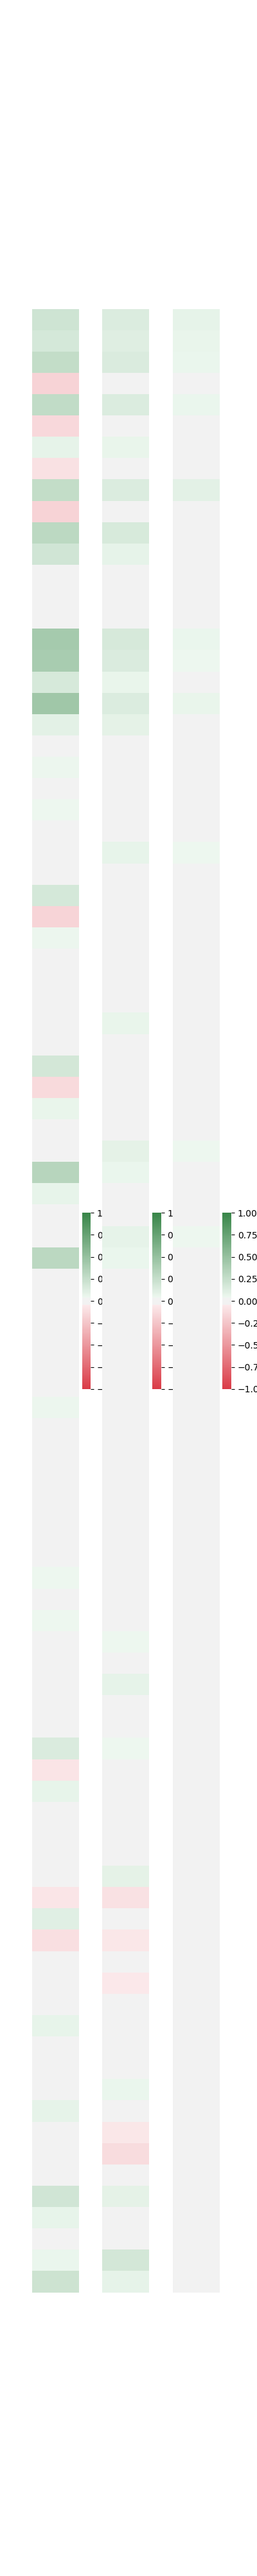
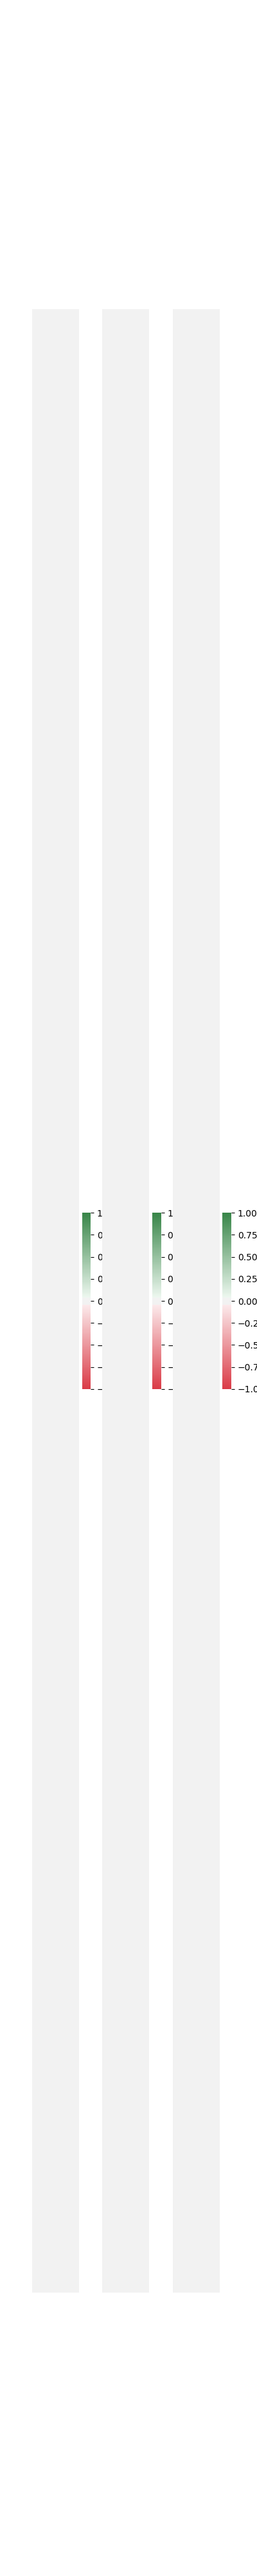
ready to train

diff --git a/part-b/2020-part-B-skeleton/voltage_mkII/treestrap.py b/part-b/2020-part-B-skeleton/voltage_mkII/treestrap.py
@@ -1,4 +1,4 @@
-from player import State, ALL, MOVE, INF
+from player import State, ALL, MOVE, INF, OPN, DEV, MID, END
 import numpy as np
 import matplotlib.pyplot as plt
 import seaborn as sns
@@ -20,8 +20,7 @@ def H(features, θ):
 α = 0.000001*3
 λ = 0.5
 MAX_CHANGE = 0.1
-def tree_strap_train(θo, θm, θe, depth=TRAIN_DEPTH):
-    OPN, MID, END = 0, 1, 2
+def tree_strap_train(θo, θd, θm, θe, depth=TRAIN_DEPTH):
     state = State()
     random_turns = np.random.choice([0] + [2]*2 + [4]*4 + [8]*8 + 16*[16] + 32*[32])
     while (not state.terminal_test()):
@@ -29,9 +28,11 @@ def tree_strap_train(θo, θm, θe, depth=TRAIN_DEPTH):
         print(state)
         print()
 
-        if state.board[state.board > 0].sum() == 12:
+        if state.stage[0] == OPN:
             θ = θo
-        elif state.board[state.board > 0].sum() > 5: 
+        elif state.stage[0] == DEV:
+            θ = θd
+        elif state.stage[0] == MID:
             θ = θm
         else:
             θ = θe
@@ -71,10 +72,10 @@ def tree_strap_train(θo, θm, θe, depth=TRAIN_DEPTH):
 
         state.board *= -1
         state.turn += 1
-    return θo, θm, θe
+    return θo, θd, θm, θe
 
 def minimax(state, depth, θ, searched_states=None):
-    if state.terminal_test():
+    if state.stages_terminal_test():
         return state.utility()
     if depth == 0:
         return H(Φ(state), θ)
@@ -92,7 +93,7 @@ def minimax(state, depth, θ, searched_states=None):
 
 
 def negamax(state, alpha, beta, depth, θ):
-    if state.terminal_test():
+    if state.stages_terminal_test():
         return state.utility()
     if depth == 0:
         return H(Φ(state), θ)
@@ -107,25 +108,40 @@ def negamax(state, alpha, beta, depth, θ):
         alpha = max(alpha, v)
     return v
 
-N_GAMES = 1
+N_GAMES = 3
 def main():
-    θo = np.load('opening.npy')
-    θm = np.load('middle.npy')
-    θe = np.load('end.npy')
+    try:
+        θo = np.load('opn.npy')
+        θd = np.load('dev.npy')
+        θm = np.load('mid.npy')
+        θe = np.load('end.npy')
+    except:
+        θo = np.array([-1.0, 1, 2, -2, 10, -10, 0, 0, 1, -1, -1, 1, 1, -1, 0, 0, 1, -1, 0, 0, 0, 0, -1, 
+                        1, 1, -1, 0, 0, 0, 0, -1, 1, -1, 1, 10, 0, 1, -1, 1, 0, 2, 0, 0, -2, 2, 0, 0, -2])/9
+        θd = np.copy(θo)
+        θm = np.copy(θo)
+        θe = np.copy(θo)
 
-    θos, θms, θes = [np.copy(θo)], [np.copy(θm)], [np.copy(θe)]
-    for _ in range(N_GAMES):
-        print('Game #', _)
-        θo, θm, θe = tree_strap_train(θo, θm, θe, depth=TRAIN_DEPTH)
+    θos, θds, θms, θes = [np.copy(θo)], [np.copy(θd)], [np.copy(θm)], [np.copy(θe)]
+    for game_num in range(N_GAMES):
+        print('Game #', game_num+1)
+        θo, θd, θm, θe = tree_strap_train(θo, θd, θm, θe, depth=TRAIN_DEPTH)
         θos.append(np.copy(θo))
+        θds.append(np.copy(θd))
         θms.append(np.copy(θm))
         θes.append(np.copy(θe))
-        np.save('opening', θo)
-        np.save('middle', θm)
+        np.save('opn', θo)
+        np.save('dev', θd)
+        np.save('mid', θm)
         np.save('end', θe)
-        if not _%10:
+        
+        if game_num%10 == 0:
+
+            # reset memoised dict
+            Φ(None, None, True)
+
             fig = plt.figure(figsize=(20, 20))
-            plt.subplot(3, 1, 1)
+            plt.subplot(4, 1, 1)
             for i in range(len(θo)):
                 x = [j for j in range(len(θos))]
                 y = [θos[j][i] for j in range(len(θos))]
@@ -134,7 +150,7 @@ def main():
                 plt.ylabel('Weight', fontsize=14)
             sns.despine()
 
-            plt.subplot(3, 1, 2)
+            plt.subplot(4, 1, 2)
             for i in range(len(θm)):
                 x = [j for j in range(len(θms))]
                 y = [θms[j][i] for j in range(len(θms))]
@@ -143,7 +159,16 @@ def main():
                 plt.ylabel('Weight', fontsize=14)
             sns.despine()
 
-            plt.subplot(3, 1, 3)
+            plt.subplot(4, 1, 3)
+            for i in range(len(θm)):
+                x = [j for j in range(len(θms))]
+                y = [θms[j][i] for j in range(len(θms))]
+                plt.plot(x, y)
+                plt.title('Mid-Game', fontsize=16)
+                plt.ylabel('Weight', fontsize=14)
+            sns.despine()
+
+            plt.subplot(4, 1, 4)
             for i in range(len(θe)):
                 x = [j for j in range(len(θes))]
                 y = [θes[j][i] for j in range(len(θes))]
@@ -154,18 +179,17 @@ def main():
             sns.despine()
             plt.savefig('Training.png')
 
-        
     cmap = sns.diverging_palette(10, 133, as_cmap=True)
     fig = plt.figure(figsize=(20, 4))
     FACTOR=1
-    plt.subplot(3, 1, 1); sns.heatmap([θo], cmap=cmap, vmin=-FACTOR, vmax=FACTOR, xticklabels=[])
-    plt.subplot(3, 1, 2); sns.heatmap([θm], cmap=cmap, vmin=-FACTOR, vmax=FACTOR, xticklabels=[])
-    plt.subplot(3, 1, 3); sns.heatmap([θe], cmap=cmap, vmin=-FACTOR, vmax=FACTOR, xticklabels=[])
+    plt.subplot(4, 1, 1); sns.heatmap([θo], cmap=cmap, vmin=-FACTOR, vmax=FACTOR, xticklabels=[])
+    plt.subplot(4, 1, 2); sns.heatmap([θd], cmap=cmap, vmin=-FACTOR, vmax=FACTOR, xticklabels=[])
+    plt.subplot(4, 1, 3); sns.heatmap([θm], cmap=cmap, vmin=-FACTOR, vmax=FACTOR, xticklabels=[])
+    plt.subplot(4, 1, 4); sns.heatmap([θe], cmap=cmap, vmin=-FACTOR, vmax=FACTOR, xticklabels=[])
     plt.savefig('Unlabelled-Heatmap.png')
     
-
     fig = plt.figure(figsize=(20, 20))
-    plt.subplot(3, 1, 1)
+    plt.subplot(4, 1, 1)
     for i in range(len(θo)):
         x = [j for j in range(len(θos))]
         y = [θos[j][i] for j in range(len(θos))]
@@ -174,7 +198,16 @@ def main():
         plt.ylabel('Weight', fontsize=14)
     sns.despine()
 
-    plt.subplot(3, 1, 2)
+    plt.subplot(4, 1, 2)
+    for i in range(len(θd)):
+        x = [j for j in range(len(θds))]
+        y = [θds[j][i] for j in range(len(θds))]
+        plt.plot(x, y)
+        plt.title('Develop', fontsize=16)
+        plt.ylabel('Weight', fontsize=14)
+    sns.despine()
+
+    plt.subplot(4, 1, 3)
     for i in range(len(θm)):
         x = [j for j in range(len(θms))]
         y = [θms[j][i] for j in range(len(θms))]
@@ -183,7 +216,7 @@ def main():
         plt.ylabel('Weight', fontsize=14)
     sns.despine()
 
-    plt.subplot(3, 1, 3)
+    plt.subplot(4, 1, 4)
     for i in range(len(θe)):
         x = [j for j in range(len(θes))]
         y = [θes[j][i] for j in range(len(θes))]
@@ -194,14 +227,28 @@ def main():
     sns.despine()
     plt.savefig('Training.png')
 
-    lbls = []
+    f1s = ['largest_connected_cluster', 'mobility', 'pieces', 'stacks', 'actions', 'connectivity', 'threat', 'av_stack_size']
+    f2s = ['piece_centrality', 'stack_centrality']
+    f3s = ['column_piece_count', 'column_stack_count']
+
+    lbls = [f+player for f in f1s for player in ['X', 'O']] +\
+        [f+str(ring)+player for f in f2s for ring in range(4) for player in ['X', 'O']]
+
+    diffs = []
+    for i in range(0, len(lbls), 2):
+        f = lbls[i][:-1]
+        diffs.append(f+'_diff')
+    lbls += diffs
+    
     fig = plt.figure(figsize=(4, 40))
-    plt.subplot(1, 3, 1); sns.heatmap([[e] for e in θo], cmap=cmap, vmin=-FACTOR, vmax=FACTOR, yticklabels=lbls, xticklabels=[])
-    plt.subplot(1, 3, 2); sns.heatmap([[e] for e in θm], cmap=cmap, vmin=-FACTOR, vmax=FACTOR, yticklabels=[], xticklabels=[])
-    plt.subplot(1, 3, 3); sns.heatmap([[e] for e in θe], cmap=cmap, vmin=-FACTOR, vmax=FACTOR, yticklabels=[], xticklabels=[])
+    plt.subplot(1, 4, 1); sns.heatmap([[e] for e in θo], cmap=cmap, vmin=-FACTOR, vmax=FACTOR, yticklabels=lbls, xticklabels=[])
+    plt.subplot(1, 4, 2); sns.heatmap([[e] for e in θd], cmap=cmap, vmin=-FACTOR, vmax=FACTOR, yticklabels=[], xticklabels=[])
+    plt.subplot(1, 4, 3); sns.heatmap([[e] for e in θm], cmap=cmap, vmin=-FACTOR, vmax=FACTOR, yticklabels=[], xticklabels=[])
+    plt.subplot(1, 4, 4); sns.heatmap([[e] for e in θe], cmap=cmap, vmin=-FACTOR, vmax=FACTOR, yticklabels=[], xticklabels=[])
     plt.savefig('Labelled-Heatmap.png')
     
     print(θo)
+    print(θd)
     print(θm)
     print(θe) 
 

diff --git a/part-b/2020-part-B-skeleton/voltage_mkII/player.py b/part-b/2020-part-B-skeleton/voltage_mkII/player.py
@@ -8,6 +8,8 @@ ALL = [(0,0),(0,1),(0,2),(0,3),(0,4),(0,5),(0,6),(0,7),(1,0),(1,1),(1,2),(1,3),(
        (6,0),(6,1),(6,2),(6,3),(6,4),(6,5),(6,6),(6,7),(7,0),(7,1),(7,2),(7,3),(7,4),(7,5),(7,6),(7,7)]
 
 
+OPN, DEV, MID, END = 0, 1, 2, 3
+
 import numpy as np
 from copy import deepcopy, copy
 from random import shuffle
@@ -34,6 +36,8 @@ class State():
             self.board = np.copy(board)
         self.turn = 0
         self.history = dd(int)
+        # Stage, num_booms, just_changed_stage?
+        self.stage = [OPN, 0, False]
 
     def actions(self, boom=True):
         """Return a list of the allowable moves at this point."""   
@@ -77,10 +81,10 @@ class State():
                 if (x,y) not in redundant_booms and boom:
                     # boom and get board difference, add all exploded white to redundant_list
                     new_board = self.result(('BOOM', (x,y))).board
-                    diff = self.board - new_board
-                    for x, y in ALL:
-                        if diff[x][y] > 0:
-                            redundant_booms.add((x, y))
+                    diff = np.copy(self.board) - new_board
+                    for x1, y1 in ALL:
+                        if diff[x1][y1] > 0:
+                            redundant_booms.add((x1, y1))
 
                     actions += get_stack_actions(self.board, x, y, boom=True)
                 else:
@@ -123,24 +127,37 @@ class State():
             explode_recursive(new_board, x0, y0)
         
         r = State(new_board)
+        r.stage = self.stage[:]
+        if action[0] == BOOM:
+            r.stage[1] += 1
+            
+        if self.board[self.board > 0].sum() <= 4 and -self.board[self.board < 0].sum() <= 4:
+            r.stage[0] = END
+        elif r.stage[1] >= 4:
+            r.stage[0] = MID
+        elif r.stage[1] >= 2:
+            r.stage[0] = DEV
+
+        r.stage[2] = r.stage[0] != self.stage[0]
+        
         r.turn = self.turn
         r.history = copy(self.history)
         return r
 
-
     def utility(self):
         """Return the value of this final state."""
-        # Draw
-        if not (self.board > 0).any() and not (self.board < 0).any():
+        if (self.turn >= MAX_TURNS*2) or (self.history[self] >= 4):
+            # Draw
             return 0
-        if (self.board > 0).any():
-            return INF
-        return -INF
-        # Distance to opponent
-        # Measure of closeness or spread
-        # Board position
-        # Closeness to centre
-        # Mobility
+        if self.stage[0] == END:
+            # Draw
+            if not (self.board > 0).any() and not (self.board < 0).any():
+                return 0
+            if (self.board > 0).any():
+                return INF*2
+            return -INF*2   
+        piece_adv = self.board[self.board > 0].sum() + self.board[self.board < 0].sum()         
+        return np.sign(piece_adv)*INF + piece_adv
 
     def terminal_test(self):
         """Return True if this is a final state for the game."""
@@ -148,6 +165,9 @@ class State():
         if (self.turn >= MAX_TURNS*2) or (self.history[self] >= 4):
             return True
         return not (self.board < 0).any() or not (self.board > 0).any()
+
+    def stages_terminal_test(self):
+        return self.terminal_test() or self.stage[2]
 
     def display(self):
         """Print or otherwise display the state."""
@@ -159,19 +179,6 @@ class State():
     def __str__(self):
         return '\n'.join([''.join([str(space).rjust(3) for space in row]) for row in self.board])
 
-
-    '''
-    def play_game(self, *players):
-        """Play an n-person, move-alternating game."""
-        state = self.initial
-        while True:
-            for player in players:
-                move = player(self, state)
-                state = self.result(state, move)
-                if self.terminal_test(state):
-                    self.display(state)
-                    return self.utility(state, self.to_move(self.initial))
-    '''
     def __hash__(self): 
         return HASH(self.board.tostring())
 

diff --git a/part-b/2020-part-B-skeleton/voltage_mkII/features.py b/part-b/2020-part-B-skeleton/voltage_mkII/features.py
@@ -23,7 +23,11 @@ R0 =[(3, 3), (3, 4),
 RINGS = [R0, R1, R2, R3]
 
 
-def Φ(state, memoized_states={}): 
+def Φ(state, memoized_states={}, reset=False): 
+    if reset:
+        memoized_states={}
+        return
+    
     if state in memoized_states:
         return memoized_states[state]
 
@@ -274,13 +278,13 @@ def Φ(state, memoized_states={}):
     f1s = [largest_connected_cluster, #largest_almost_connected_cluster_stacks, largest_almost_connected_cluster_pieces,
            mobility, pieces, stacks, actions, connectivity, threat, av_stack_size]
     f2s = [piece_centrality, stack_centrality]
-    f3s = [column_piece_count, column_stack_count]
+    #f3s = [column_piece_count, column_stack_count]
 
     features = [f(player) for f in f1s for player in [X, O]] + \
-               [f(player, ring) for f in f2s for ring in RINGS for player in [X, O]] + \
-               [f(player, col) for f in f3s for col in range(8) for player in [X, O]]
+               [f(player, ring) for f in f2s for ring in RINGS for player in [X, O]]
+               #[f(player, col) for f in f3s for col in range(8) for player in [X, O]]
     diffs = []
-    for i in range(0, len(features, 2)):
+    for i in range(0, len(features), 2):
         diffs.append(features[i] - features[i+1])
     features = np.array(features+diffs)
     

diff --git a/part-b/2020-part-B-skeleton/voltage/treestrap.py b/part-b/2020-part-B-skeleton/voltage/treestrap.py
@@ -107,11 +107,16 @@ def negamax(state, alpha, beta, depth, θ):
         alpha = max(alpha, v)
     return v
 
-N_GAMES = 1
+N_GAMES = 8
 def main():
-    θo = np.load('opening.npy')
-    θm = np.load('middle.npy')
-    θe = np.load('end.npy')
+    try:
+        θo = np.load('opening.npy')
+        θm = np.load('middle.npy')
+        θe = np.load('end.npy')
+    except:
+        θo = np.random.uniform(-0.01, 0.01, num_features)
+        θm = np.random.uniform(-0.01, 0.01, num_features)
+        θe = np.random.uniform(-0.01, 0.01, num_features)
 
     θos, θms, θes = [np.copy(θo)], [np.copy(θm)], [np.copy(θe)]
     for _ in range(N_GAMES):

diff --git a/part-b/2020-part-B-skeleton/voltage/features.py b/part-b/2020-part-B-skeleton/voltage/features.py
@@ -280,7 +280,7 @@ def Φ(state, memoized_states={}):
                [f(player, ring) for f in f2s for ring in RINGS for player in [X, O]] + \
                [f(player, col) for f in f3s for col in range(8) for player in [X, O]]
     diffs = []
-    for i in range(0, len(features, 2)):
+    for i in range(0, len(features), 2):
         diffs.append(features[i] - features[i+1])
     features = np.array(features+diffs)
 
